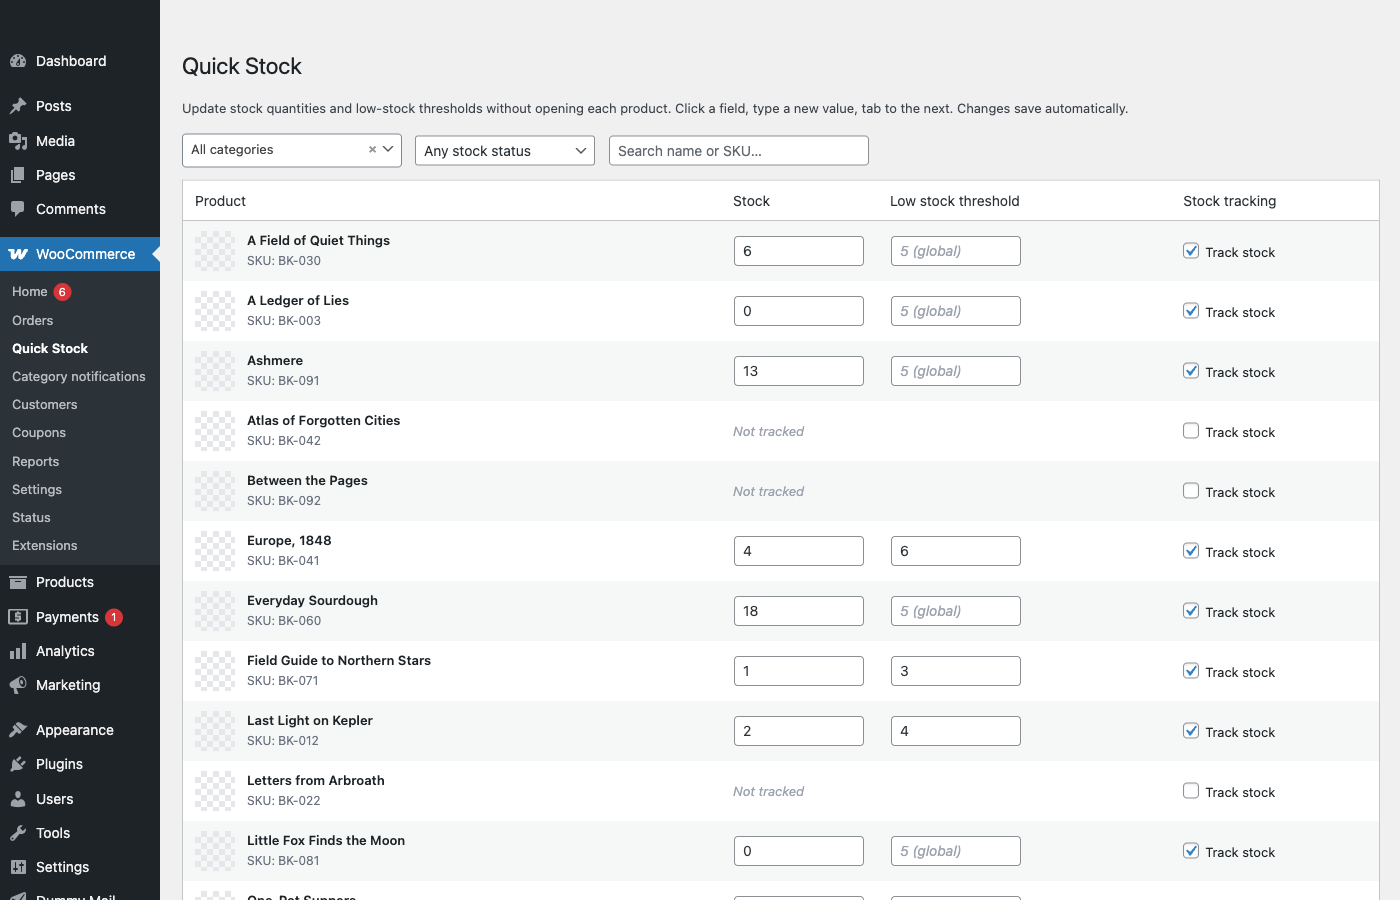
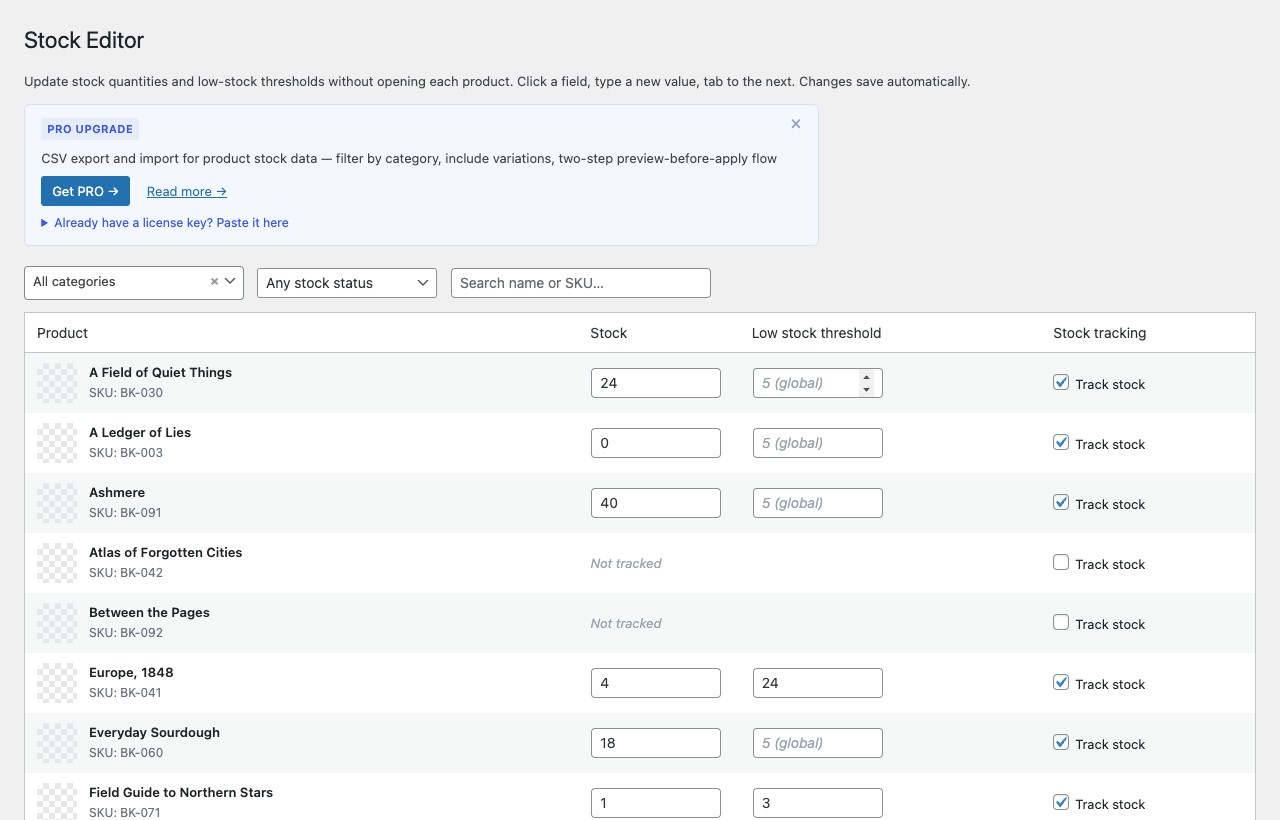
Rename: Quick Stock → Stock Editor + namespace JQSW_ → JISE_
- Plugin display name and submenu label changed to "Stock Editor"
  (was "Quick Stock") to match the plugin slug.
- All constants renamed (JQSW_VERSION → JISE_VERSION, etc.) and admin
  page slug renamed (jqsw-quick-stock → jise-stock-editor) so this
  plugin no longer collides with jalma-quick-stock-for-woocommerce
  when both are installed in the same WordPress site.
- All action/filter hooks prefixed with jise_ (was jqsw_).
- Bumped version 1.1.2 → 1.1.3.
- New screenshot taken with Pro deactivated so no Pro tabs appear.
- Banner/icon files renamed to match new slug-based pattern.

diff --git a/includes/class-rest-controller.php b/includes/class-rest-controller.php
@@ -5,7 +5,7 @@ if ( ! defined( 'ABSPATH' ) ) {
 }
 
 /**
- * REST controller for Quick Stock.
+ * REST controller for Stock Editor.
  *
  * Namespace: jalma-quick-stock/v1
  *
@@ -19,7 +19,7 @@ if ( ! defined( 'ABSPATH' ) ) {
  * All routes require `manage_woocommerce` capability and the default WP REST
  * nonce (X-WP-Nonce header). Nonce is supplied from wp_localize_script.
  */
-class JQSW_Rest_Controller {
+class JISE_Rest_Controller {
 
 	const NAMESPACE_ROOT = 'jalma-quick-stock/v1';
 
@@ -36,7 +36,7 @@ class JQSW_Rest_Controller {
 		 *
 		 * @param string $namespace The REST namespace ('jalma-quick-stock/v1').
 		 */
-		do_action( 'jqsw_before_register_routes', self::NAMESPACE_ROOT );
+		do_action( 'jise_before_register_routes', self::NAMESPACE_ROOT );
 
 		register_rest_route( self::NAMESPACE_ROOT, '/products', [
 			'methods'             => 'GET',
@@ -108,7 +108,7 @@ class JQSW_Rest_Controller {
 		 *
 		 * @param string $namespace The REST namespace ('jalma-quick-stock/v1').
 		 */
-		do_action( 'jqsw_after_register_routes', self::NAMESPACE_ROOT );
+		do_action( 'jise_after_register_routes', self::NAMESPACE_ROOT );
 	}
 
 	public function check_permission() {
@@ -225,7 +225,7 @@ class JQSW_Rest_Controller {
 	public function list_variations( $request ) {
 		$parent = wc_get_product( (int) $request['id'] );
 		if ( ! $parent || ! $parent->is_type( 'variable' ) ) {
-			return new WP_Error( 'jqsw_not_variable', __( 'Product is not a variable product.', 'jalma-inline-stock-editor-for-woocommerce' ), [ 'status' => 400 ] );
+			return new WP_Error( 'jise_not_variable', __( 'Product is not a variable product.', 'jalma-inline-stock-editor-for-woocommerce' ), [ 'status' => 400 ] );
 		}
 
 		$variations = [];
@@ -248,7 +248,7 @@ class JQSW_Rest_Controller {
 		$product    = wc_get_product( $product_id );
 
 		if ( ! $product ) {
-			return new WP_Error( 'jqsw_not_found', __( 'Product not found.', 'jalma-inline-stock-editor-for-woocommerce' ), [ 'status' => 404 ] );
+			return new WP_Error( 'jise_not_found', __( 'Product not found.', 'jalma-inline-stock-editor-for-woocommerce' ), [ 'status' => 404 ] );
 		}
 
 		$old_stock     = $product->get_stock_quantity();
@@ -270,7 +270,7 @@ class JQSW_Rest_Controller {
 
 		/**
 		 * Fires after a product's stock and/or low-stock threshold has been
-		 * updated through Quick Stock. This is the hook an adjustment-log
+		 * updated through Stock Editor. This is the hook an adjustment-log
 		 * add-on would listen to for writing audit entries.
 		 *
 		 * @since 1.0.5
@@ -281,7 +281,7 @@ class JQSW_Rest_Controller {
 		 *                                  'new_threshold'.
 		 * @param WP_REST_Request $request  The original request.
 		 */
-		do_action( 'jqsw_after_product_update', $product, [
+		do_action( 'jise_after_product_update', $product, [
 			'old_stock'     => $old_stock,
 			'new_stock'     => $product->get_stock_quantity(),
 			'old_threshold' => $old_threshold,
@@ -297,7 +297,7 @@ class JQSW_Rest_Controller {
 		$parent               = wc_get_product( $product_id );
 
 		if ( ! $parent || ! $parent->is_type( 'variable' ) ) {
-			return new WP_Error( 'jqsw_not_variable', __( 'Product is not a variable product.', 'jalma-inline-stock-editor-for-woocommerce' ), [ 'status' => 400 ] );
+			return new WP_Error( 'jise_not_variable', __( 'Product is not a variable product.', 'jalma-inline-stock-editor-for-woocommerce' ), [ 'status' => 400 ] );
 		}
 
 		if ( $manage_per_variation ) {
@@ -338,7 +338,7 @@ class JQSW_Rest_Controller {
 		$product    = wc_get_product( $product_id );
 
 		if ( ! $product ) {
-			return new WP_Error( 'jqsw_not_found', __( 'Product not found.', 'jalma-inline-stock-editor-for-woocommerce' ), [ 'status' => 404 ] );
+			return new WP_Error( 'jise_not_found', __( 'Product not found.', 'jalma-inline-stock-editor-for-woocommerce' ), [ 'status' => 404 ] );
 		}
 
 		$product->set_manage_stock( true );
@@ -355,7 +355,7 @@ class JQSW_Rest_Controller {
 		$product    = wc_get_product( $product_id );
 
 		if ( ! $product ) {
-			return new WP_Error( 'jqsw_not_found', __( 'Product not found.', 'jalma-inline-stock-editor-for-woocommerce' ), [ 'status' => 404 ] );
+			return new WP_Error( 'jise_not_found', __( 'Product not found.', 'jalma-inline-stock-editor-for-woocommerce' ), [ 'status' => 404 ] );
 		}
 
 		// Keep the existing _stock value so it can be restored if the user
@@ -417,6 +417,6 @@ class JQSW_Rest_Controller {
 		 * @param array      $data    The serialized product data.
 		 * @param WC_Product $product The product object.
 		 */
-		return apply_filters( 'jqsw_product_row_data', $data, $product );
+		return apply_filters( 'jise_product_row_data', $data, $product );
 	}
 }

diff --git a/jalma-inline-stock-editor-for-woocommerce.php b/jalma-inline-stock-editor-for-woocommerce.php
@@ -3,7 +3,7 @@
  * Plugin Name: Jalma Inline Stock Editor for WooCommerce
  * Plugin URI: https://wordpress.org/plugins/jalma-inline-stock-editor-for-woocommerce/
  * Description: Edit WooCommerce stock quantities and low-stock thresholds directly from a single table — no more clicking into each product. Inline edit, keyboard navigation, category filter, full variation support.
- * Version: 1.1.2
+ * Version: 1.1.3
  * Author: jonashjalmarsson
  * Author URI: https://jonashjalmarsson.se
  * License: GPLv2 or later
@@ -33,19 +33,19 @@ add_action( 'before_woocommerce_init', function () {
 	}
 } );
 
-define( 'JQSW_VERSION', '1.1.2' );
-define( 'JQSW_SLUG', 'jalma-inline-stock-editor-for-woocommerce' );
-define( 'JQSW_PATH', plugin_dir_path( __FILE__ ) );
-define( 'JQSW_URL', plugin_dir_url( __FILE__ ) );
+define( 'JISE_VERSION', '1.1.3' );
+define( 'JISE_SLUG', 'jalma-inline-stock-editor-for-woocommerce' );
+define( 'JISE_PATH', plugin_dir_path( __FILE__ ) );
+define( 'JISE_URL', plugin_dir_url( __FILE__ ) );
 
 /* @wporg-strip-start */
 /* jhwpl — self-hosted update checker (stripped from wp.org build) */
-require_once JQSW_PATH . 'jhwpl/update_checker.php';
+require_once JISE_PATH . 'jhwpl/update_checker.php';
 new \JHWPL\UpdateChecker( [
-	'version'       => JQSW_VERSION,
+	'version'       => JISE_VERSION,
 	'basename_dir'  => plugin_basename( __DIR__ ),
 	'basename_file' => plugin_basename( __FILE__ ),
-	'slug'          => JQSW_SLUG,
+	'slug'          => JISE_SLUG,
 	'info_url'      => 'https://plugins.jonashjalmarsson.se/jalma-inline-stock-editor-for-woocommerce/info.json',
 ] );
 /* @wporg-strip-end */
@@ -64,11 +64,11 @@ add_action( 'plugins_loaded', function () {
 		return;
 	}
 
-	require_once JQSW_PATH . 'includes/class-admin-page.php';
-	require_once JQSW_PATH . 'includes/class-rest-controller.php';
+	require_once JISE_PATH . 'includes/class-admin-page.php';
+	require_once JISE_PATH . 'includes/class-rest-controller.php';
 
-	new JQSW_Admin_Page();
-	new JQSW_Rest_Controller();
+	new JISE_Admin_Page();
+	new JISE_Rest_Controller();
 } );
 
 /*
@@ -77,7 +77,7 @@ add_action( 'plugins_loaded', function () {
  * Free plugin's settings page hook + the WooCommerce menu have already
  * been registered.
  */
-require_once JQSW_PATH . 'jhlsq-purchase/jhlsq-purchase.php';
+require_once JISE_PATH . 'jhlsq-purchase/jhlsq-purchase.php';
 
 add_action( 'admin_init', function () {
 	if ( ! class_exists( '\\JHLSQ\\Purchase' ) ) {
@@ -87,16 +87,16 @@ add_action( 'admin_init', function () {
 		'free_basename'        => 'jalma-inline-stock-editor-for-woocommerce/jalma-inline-stock-editor-for-woocommerce.php',
 		'pro_basename'         => 'jalma-quick-stock-for-woocommerce-pro/jalma-quick-stock-for-woocommerce-pro.php',
 		'pro_class_check'      => 'JQSWP\\Tabs',
-		'pro_label'            => 'Quick Stock for WooCommerce PRO',
+		'pro_label'            => 'Stock Editor for WooCommerce PRO',
 		'checkout_url'         => 'https://pay.jonashjalmarsson.se/checkout/buy/03c85738-f8d1-40ef-ae72-046503763ecb',
 		'download_url'         => 'https://plugins.jonashjalmarsson.se/jalma-quick-stock-for-woocommerce-pro/jalma-quick-stock-for-woocommerce-pro.zip',
 		'bridge_base'          => 'https://jonashjalmarsson.se/wp-json/lsq-bridge/v1',
 		'license_option'       => 'lsq_jalma-quick-stock-for-woocommerce-pro',
-		'license_page_url'     => admin_url( 'admin.php?page=jqswp-license' ),
-		'settings_page_hook'   => 'woocommerce_page_jqsw-quick-stock',
-		'after_heading_action' => 'jqsw_before_filters',
+		'license_page_url'     => admin_url( 'admin.php?page=jise-license' ),
+		'settings_page_hook'   => 'woocommerce_page_jise-stock-editor',
+		'after_heading_action' => 'jise_before_filters',
 		'pitch_text'           => 'CSV export and import for product stock data — filter by category, include variations, two-step preview-before-apply flow',
 		'landing_page_url'     => 'https://jonashjalmarsson.se/plugins/jalma-quick-stock-for-woocommerce-pro/',
-		'install_action_name'  => 'jqsw_install_pro',
+		'install_action_name'  => 'jise_install_pro',
 	] );
 } );

diff --git a/includes/class-admin-page.php b/includes/class-admin-page.php
@@ -4,7 +4,7 @@ if ( ! defined( 'ABSPATH' ) ) {
 	exit;
 }
 
-class JQSW_Admin_Page {
+class JISE_Admin_Page {
 
 	public function __construct() {
 		add_action( 'admin_menu', [ $this, 'add_menu_page' ] );
@@ -14,16 +14,16 @@ class JQSW_Admin_Page {
 	public function add_menu_page() {
 		add_submenu_page(
 			'woocommerce',
-			__( 'Quick Stock', 'jalma-inline-stock-editor-for-woocommerce' ),
-			__( 'Quick Stock', 'jalma-inline-stock-editor-for-woocommerce' ),
+			__( 'Stock Editor', 'jalma-inline-stock-editor-for-woocommerce' ),
+			__( 'Stock Editor', 'jalma-inline-stock-editor-for-woocommerce' ),
 			'manage_woocommerce',
-			'jqsw-quick-stock',
+			'jise-stock-editor',
 			[ $this, 'render_page' ]
 		);
 	}
 
 	public function enqueue_assets( $hook ) {
-		if ( 'woocommerce_page_jqsw-quick-stock' !== $hook ) {
+		if ( 'woocommerce_page_jise-stock-editor' !== $hook ) {
 			return;
 		}
 		wp_enqueue_script( 'wc-enhanced-select' );
@@ -32,16 +32,16 @@ class JQSW_Admin_Page {
 
 		wp_enqueue_style(
 			'jqsw-admin',
-			JQSW_URL . 'admin/css/quick-stock.css',
+			JISE_URL . 'admin/css/quick-stock.css',
 			[],
-			JQSW_VERSION
+			JISE_VERSION
 		);
 
 		wp_enqueue_script(
 			'jqsw-admin',
-			JQSW_URL . 'admin/js/quick-stock.js',
+			JISE_URL . 'admin/js/quick-stock.js',
 			[ 'jquery', 'wc-enhanced-select' ],
-			JQSW_VERSION,
+			JISE_VERSION,
 			true
 		);
 
@@ -86,7 +86,7 @@ class JQSW_Admin_Page {
 	public function render_page() {
 		?>
 		<div class="wrap jqsw-wrap">
-			<h1><?php esc_html_e( 'Quick Stock', 'jalma-inline-stock-editor-for-woocommerce' ); ?></h1>
+			<h1><?php esc_html_e( 'Stock Editor', 'jalma-inline-stock-editor-for-woocommerce' ); ?></h1>
 			<p><?php esc_html_e( 'Update stock quantities and low-stock thresholds without opening each product. Click a field, type a new value, tab to the next. Changes save automatically.', 'jalma-inline-stock-editor-for-woocommerce' ); ?></p>
 
 			<?php
@@ -97,7 +97,7 @@ class JQSW_Admin_Page {
 			 *
 			 * @since 1.0.5
 			 */
-			do_action( 'jqsw_before_filters' );
+			do_action( 'jise_before_filters' );
 			?>
 
 			<div class="jqsw-filters">
@@ -111,7 +111,7 @@ class JQSW_Admin_Page {
 				 *
 				 * @since 1.0.5
 				 */
-				do_action( 'jqsw_filters_extra' );
+				do_action( 'jise_filters_extra' );
 				?>
 			</div>
 
@@ -123,7 +123,7 @@ class JQSW_Admin_Page {
 			 *
 			 * @since 1.0.5
 			 */
-			do_action( 'jqsw_before_table' );
+			do_action( 'jise_before_table' );
 			?>
 
 			<div class="jqsw-table-wrap">
@@ -151,13 +151,13 @@ class JQSW_Admin_Page {
 
 			<?php
 			/**
-			 * Fires after the entire Quick Stock UI. Use this to inject
+			 * Fires after the entire Stock Editor UI. Use this to inject
 			 * footer content, upgrade links, or documentation panels from
 			 * an add-on.
 			 *
 			 * @since 1.0.5
 			 */
-			do_action( 'jqsw_after_table' );
+			do_action( 'jise_after_table' );
 			?>
 		</div>
 		<?php
